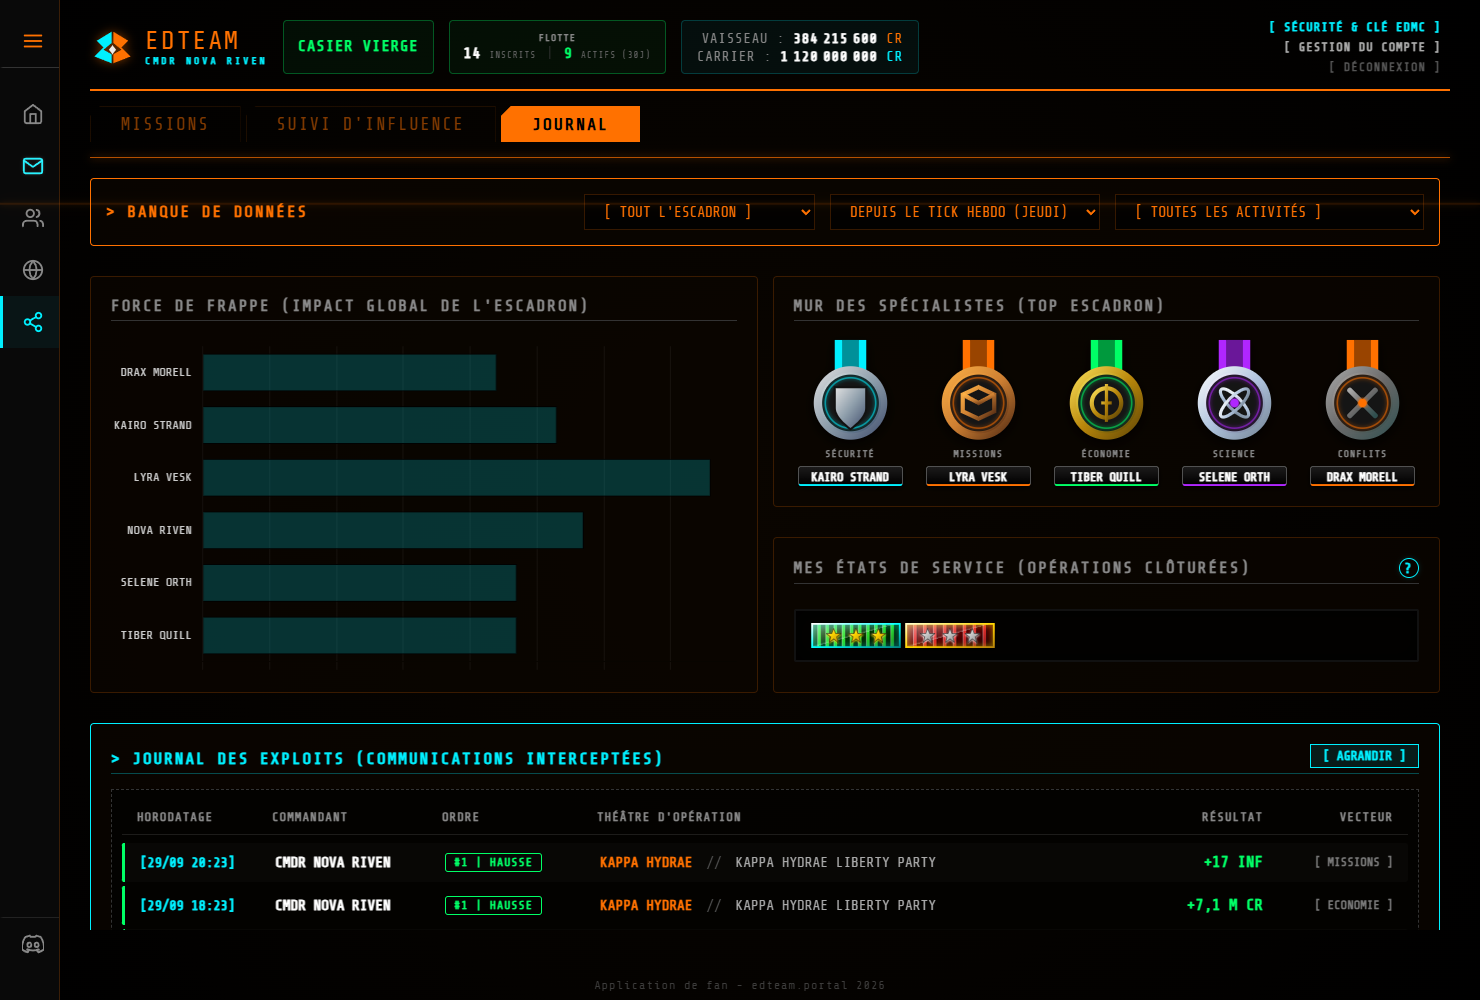
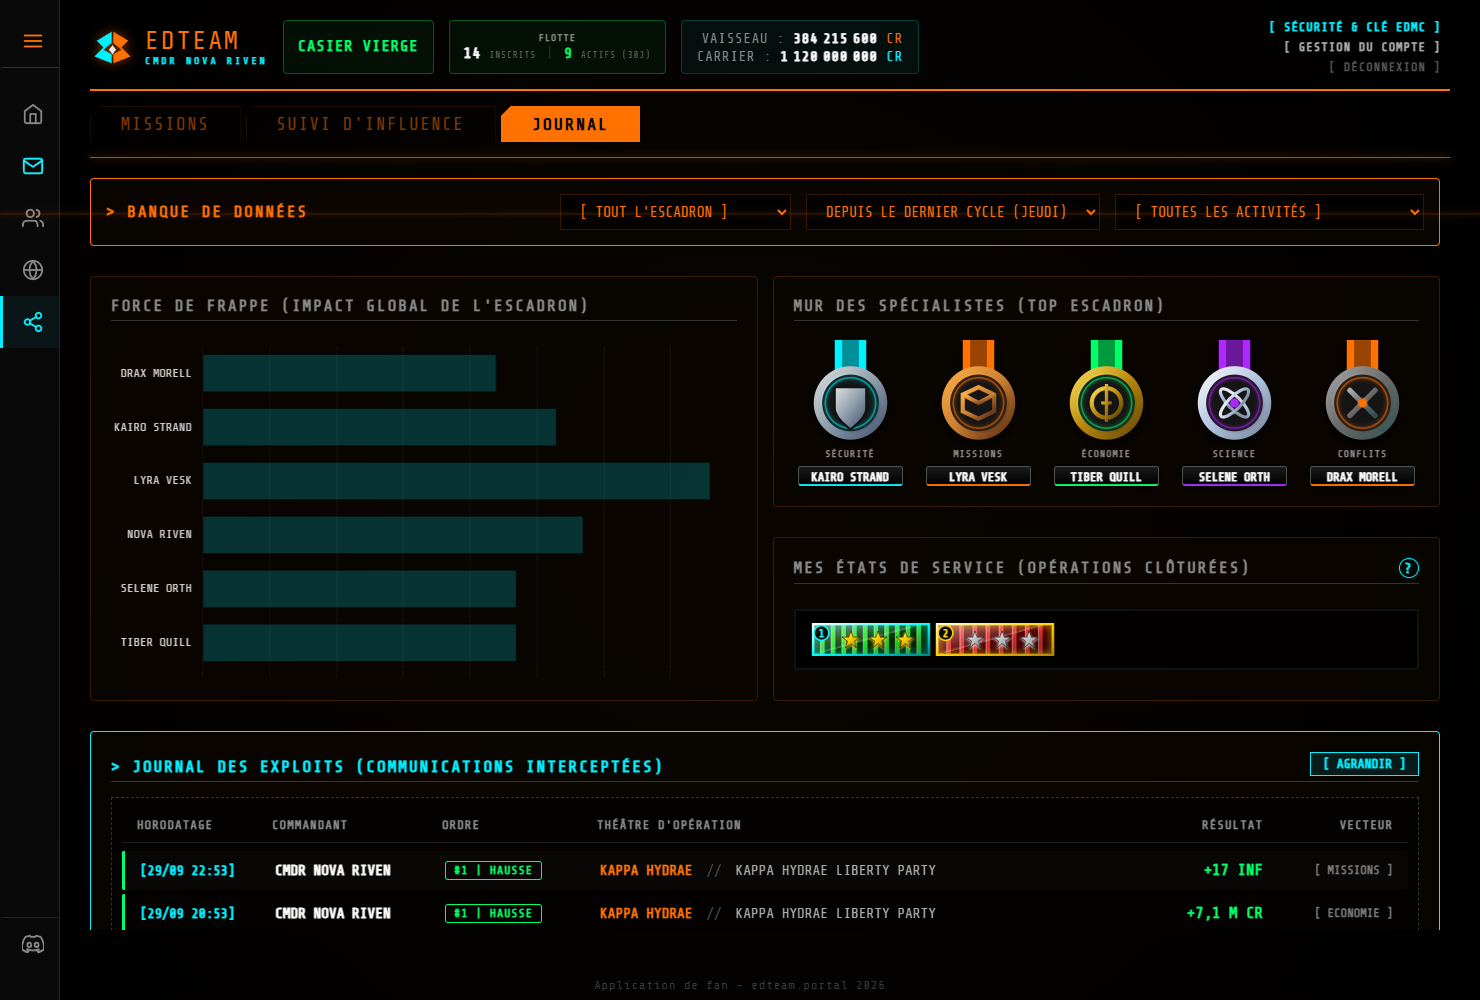
Plaques d'etats de service : taille 120x33, disque de rang (1, 2, 3) dans le coin, etoiles decalees, legende mise a jour ; captures de la presentation actualisees

diff --git a/escadron.html b/escadron.html
@@ -445,7 +445,7 @@
                                                 
                                                 <div style="line-height: 1.4;">
                                                     <strong style="color: #fff;">🔲 ENCADREMENT : RANG ESCADRON</strong><br>
-                                                    <span style="color: #ccc;">Argent (3e), Or (2e), <strong style="color:#00FFFF; text-shadow: 0 0 5px #00FFFF;">Diamant (1er)</strong>. Pas de cadre au-delà du podium.</span>
+                                                    <span style="color: #ccc;">Argent (3e), Or (2e), <strong style="color:#00FFFF; text-shadow: 0 0 5px #00FFFF;">Diamant (1er)</strong>. Pas de cadre au-delà du podium. Le chiffre dans le coin de la plaque indique ce rang.</span>
                                                 </div>
                                             </div>
                                         </div>
@@ -618,8 +618,8 @@
 
             const renderStars = (count, gradId, glow) => {
                 if (count === 1) return drawStar(50, 14, gradId, glow, 0.65);
-                if (count === 2) return drawStar(35, 14, gradId, glow, 0.65) + drawStar(65, 14, gradId, glow, 0.65);
-                if (count === 3) return drawStar(25, 14, gradId, glow, 0.55) + drawStar(50, 14, gradId, glow, 0.55) + drawStar(75, 14, gradId, glow, 0.55);
+                if (count === 2) return drawStar(40, 14, gradId, glow, 0.6) + drawStar(68, 14, gradId, glow, 0.6);
+                if (count === 3) return drawStar(33, 14, gradId, glow, 0.5) + drawStar(56, 14, gradId, glow, 0.5) + drawStar(79, 14, gradId, glow, 0.5);
                 return '';
             };
 
@@ -658,6 +658,13 @@
                 frame = `<rect x="1" y="1" width="98" height="26" fill="none" stroke="#555555" stroke-width="2"/>`;
             }
 
+            // Disque de podium (rang 1, 2, 3) dans le coin : le cadre montre la place, le chiffre la confirme
+            let podium = '';
+            if (rang >= 1 && rang <= 3) {
+                const pc = rang === 1 ? '#00FFFF' : (rang === 2 ? '#FFD700' : '#C0C0C0');
+                podium = `<circle cx="8" cy="8.5" r="6.2" fill="#050505" stroke="${pc}" stroke-width="1.3"/><text x="8" y="12" text-anchor="middle" font-family="'Share Tech Mono', monospace" font-size="9.5" font-weight="bold" fill="${pc}">${rang}</text>`;
+            }
+
             let clickHandler = onclickAction ? `onclick="${onclickAction}; if(typeof hideHoloTooltip === 'function') hideHoloTooltip();"` : '';
 
             return `
@@ -669,7 +676,7 @@
                  onmouseover="this.style.transform='scale(1.15)'; this.style.zIndex='50';"
                  onmouseout="this.style.transform='scale(1)'; this.style.zIndex='1';">
                 
-                <svg viewBox="0 0 100 28" style="width: 90px; height: 25px; display: block; filter: drop-shadow(1px 2px 2px rgba(0,0,0,0.8));">
+                <svg viewBox="0 0 100 28" style="width: 120px; height: 33px; display: block; filter: drop-shadow(1px 2px 2px rgba(0,0,0,0.8));">
                     <defs>
                         <linearGradient id="gradBg_${randId}" x1="0%" y1="0%" x2="100%" y2="100%">
                             <stop offset="0%" stop-color="${bg1}" />
@@ -693,6 +700,7 @@
                     <rect x="0" y="0" width="100" height="28" fill="url(#metalGlare_${randId})" pointer-events="none"/>
                     ${frame}
                     ${stars}
+                    ${podium}
                 </svg>
             </div>`;
         };

diff --git a/bgs.html b/bgs.html
@@ -604,7 +604,7 @@
                                         
                                         <div style="line-height: 1.4;">
                                             <strong style="color: #fff;">🔲 ENCADREMENT : RANG ESCADRON</strong><br>
-                                            <span style="color: #ccc;">Argent (3e), Or (2e), <strong style="color:#00FFFF; text-shadow: 0 0 5px #00FFFF;">Diamant (1er)</strong>. Pas de cadre au-delà du podium.</span>
+                                            <span style="color: #ccc;">Argent (3e), Or (2e), <strong style="color:#00FFFF; text-shadow: 0 0 5px #00FFFF;">Diamant (1er)</strong>. Pas de cadre au-delà du podium. Le chiffre dans le coin de la plaque indique ce rang.</span>
                                         </div>
                                     </div>
                                 </div>
@@ -2930,8 +2930,8 @@
 
             const renderStars = (count, gradId, glow) => {
                 if (count === 1) return drawStar(50, 14, gradId, glow, 0.65);
-                if (count === 2) return drawStar(35, 14, gradId, glow, 0.65) + drawStar(65, 14, gradId, glow, 0.65);
-                if (count === 3) return drawStar(25, 14, gradId, glow, 0.55) + drawStar(50, 14, gradId, glow, 0.55) + drawStar(75, 14, gradId, glow, 0.55);
+                if (count === 2) return drawStar(40, 14, gradId, glow, 0.6) + drawStar(68, 14, gradId, glow, 0.6);
+                if (count === 3) return drawStar(33, 14, gradId, glow, 0.5) + drawStar(56, 14, gradId, glow, 0.5) + drawStar(79, 14, gradId, glow, 0.5);
                 return '';
             };
 
@@ -2970,6 +2970,13 @@
                 frame = `<rect x="1" y="1" width="98" height="26" fill="none" stroke="#555555" stroke-width="2"/>`;
             }
 
+            // Disque de podium (rang 1, 2, 3) dans le coin : le cadre montre la place, le chiffre la confirme
+            let podium = '';
+            if (rang >= 1 && rang <= 3) {
+                const pc = rang === 1 ? '#00FFFF' : (rang === 2 ? '#FFD700' : '#C0C0C0');
+                podium = `<circle cx="8" cy="8.5" r="6.2" fill="#050505" stroke="${pc}" stroke-width="1.3"/><text x="8" y="12" text-anchor="middle" font-family="'Share Tech Mono', monospace" font-size="9.5" font-weight="bold" fill="${pc}">${rang}</text>`;
+            }
+
             let clickHandler = onclickAction ? `onclick="${onclickAction}; if(typeof hideHoloTooltip === 'function') hideHoloTooltip();"` : '';
 
             return `
@@ -2981,7 +2988,7 @@
                  onmouseover="this.style.transform='scale(1.15)'; this.style.zIndex='50';"
                  onmouseout="this.style.transform='scale(1)'; this.style.zIndex='1';">
                 
-                <svg viewBox="0 0 100 28" style="width: 90px; height: 25px; display: block; filter: drop-shadow(1px 2px 2px rgba(0,0,0,0.8));">
+                <svg viewBox="0 0 100 28" style="width: 120px; height: 33px; display: block; filter: drop-shadow(1px 2px 2px rgba(0,0,0,0.8));">
                     <defs>
                         <linearGradient id="gradBg_${randId}" x1="0%" y1="0%" x2="100%" y2="100%">
                             <stop offset="0%" stop-color="${bg1}" />
@@ -3005,6 +3012,7 @@
                     <rect x="0" y="0" width="100" height="28" fill="url(#metalGlare_${randId})" pointer-events="none"/>
                     ${frame}
                     ${stars}
+                    ${podium}
                 </svg>
             </div>`;
         };
